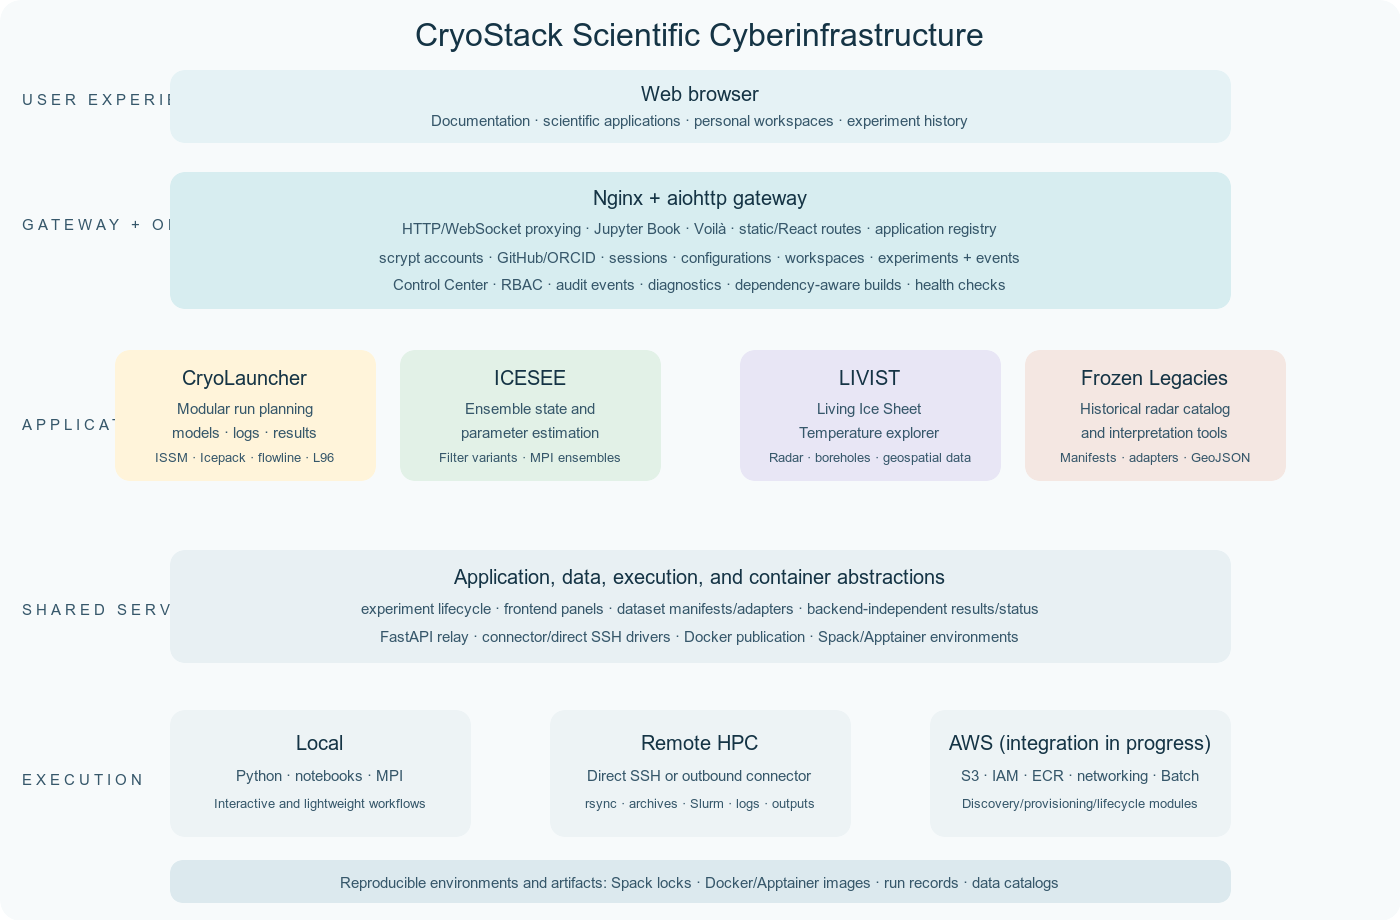
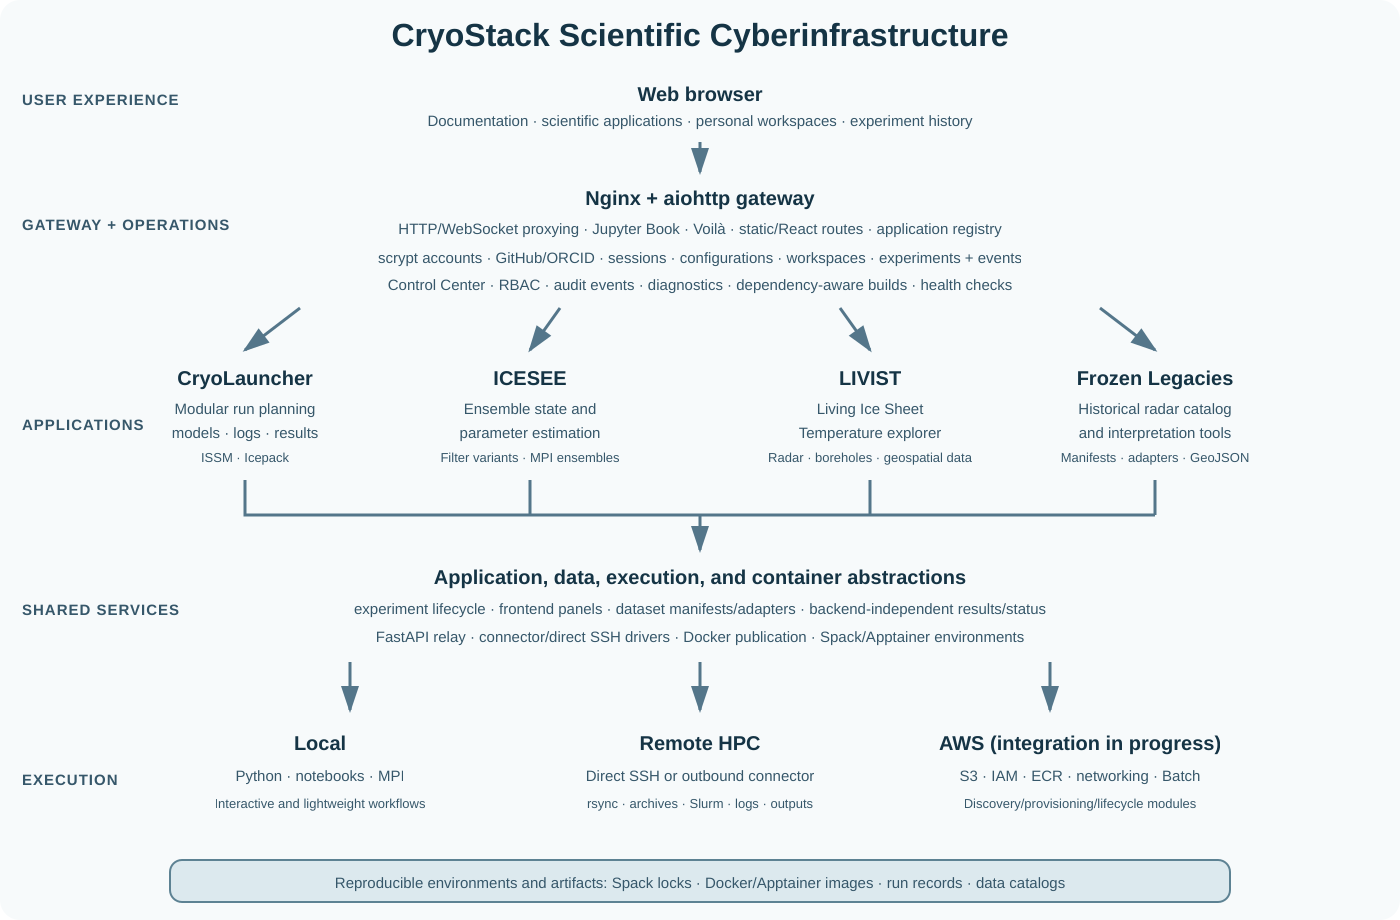
paper: update cloud validation and architecture figure
The manuscript's cloud paragraph and Figure 1 caption said AWS Batch
execution was restricted to ISSM. Since the manuscript was last revised,
the same AWS driver/provisioning architecture was extended to ICESEE, and
its Lorenz-96 example was verified end to end at NP=1; a real CloudFormation
role-name collision in BYO-AWS onboarding was also fixed by moving to
connection-scoped stacks/roles.

- Cloud and Container Architecture: replaced the obsolete ISSM-only
  restriction with an accurate statement that both applications share the
  same driver/provisioning architecture, connecting an AWS account uses
  connection-scoped CloudFormation infrastructure, and ICESEE's verified
  coverage is exactly one example at NP=1 -- explicitly not generalized to
  other examples or multi-process execution, and not a substitute for
  ISSM's existing, unchanged qualification boundary. Added one sentence
  noting that moving between execution backends reuses the same
  scientific/application configuration rather than a separate
  backend-specific one, without claiming identical backend behavior.
- Figure 1: fixed cryostack_architecture.svg's CryoLauncher model-list
  label ("ISSM . Icepack . flowline . L96", a stale list -- Lorenz-96
  belongs to ICESEE, and "flowline" is not a CryoLauncher model) to "ISSM .
  Icepack", and regenerated the PNG from the corrected SVG source (same
  dimensions/mode, no layout change elsewhere). Updated the caption to
  match.
[…]

diff --git a/paper/paper.md b/paper/paper.md
@@ -125,8 +125,10 @@ in a registry rather than hard-coded in a single service script.
 ![CryoStack's current layered architecture. A shared gateway and operations plane supplies identity, per-user workspaces, experiments, administration, deployment, and health services to four scientific applications. Shared contracts cover model capabilities, structured results, and visualization. Modeling and data-assimilation workflows can use local, connector-mediated HPC, or AWS Batch execution backends over reproducible Spack and container environments.](cryostack_architecture.png)
 
 **Figure 1:** CryoStack platform architecture. Solid components are present in
-the repository. The AWS Batch path is implemented for ISSM and awaits
-qualification on a controlled account.
+the repository. The AWS Batch path is implemented for both CryoLauncher/ISSM
+and ICESEE; ISSM awaits qualification on a controlled account, and ICESEE's
+verified coverage is limited to a single example at NP=1 (single-process
+execution).
 
 ## Gateway, routing, and process composition
 
@@ -420,6 +422,10 @@ institutional key-registration process.
 # Cloud and Container Architecture
 
 The cloud subsystem is organized around provider-independent driver contracts.
+Moving an application between execution backends reuses the same
+scientific/application configuration rather than requiring a separate
+backend-specific one, although backend-specific execution and infrastructure
+settings, and validation maturity, still differ by application and backend.
 Abstract cloud and execution interfaces separate frontend actions from provider
 operations. The AWS driver exposes identity and capability inspection;
 discovery and preparation of VPC, subnet, security-group, IAM, S3, ECR, and
@@ -441,11 +447,19 @@ termination flow back through the common execution result. This path is
 implemented but not yet qualified: it runs against a single account-wide bucket
 without per-user object isolation, accepts a caller-supplied Batch job
 definition rather than an allow-listed one, and lacks the budget, quota,
-cleanup, and failure-recovery controls a shared service needs. Cloud execution
-is restricted to ISSM; the multi-node MPI ensembles that ICESEE runs do not fit
-the current single-container Batch configuration. ISSM cloud runs additionally
-require a MATLAB license to be configured for the cloud profile, and the
-reference deployment does not provide one.
+cleanup, and failure-recovery controls a shared service needs. The same AWS
+driver and provisioning architecture also now serves ICESEE rather than a
+second, independent cloud stack; connecting a personal AWS account uses a
+connection-scoped CloudFormation onboarding flow, so independently created
+CryoStack AWS connections do not depend on one globally fixed execution-role
+name. ICESEE's Lorenz-96 example has been executed end to end through this
+shared path at NP=1 (single-process execution), but this does not extend to
+ICESEE's other examples or to multi-process execution, and it does not
+substitute for the ISSM qualification described above: architectural reach
+across applications is currently broader than what has been validated end
+to end for either one. ISSM cloud runs additionally require a MATLAB
+license to be configured for the cloud profile, and the reference
+deployment does not provide one.
 
 Two environment strategies complement these execution backends. ICESEE-Spack
 uses Spack [@gamblin2015spack] to resolve source builds against site compilers,
@@ -527,11 +541,11 @@ interfaces, connector packages, cloud and container modules, deployment
 registry, documentation, Frozen Legacies integration, LIVIST submodule, and a
 pinned ICESEE source snapshot.
 
-The shared platform layers are exercised by an automated test suite:
-approximately 1,280 Python tests spanning the gateway, authentication, Control
-Center, frontend panels, model adapters, connector, cloud modules, and
-deployment engine, plus a browser-facing connector-page test set, all passing
-at the documented revision. A separate offline acceptance command
+The current automated test suite includes more than 1,800 passing Python
+tests spanning the gateway, authentication, Control Center, frontend
+panels, model adapters, connector, cloud modules, and deployment engine,
+plus a browser-facing connector-page test set. A separate offline
+acceptance command
 (`python -m cryostack_src.acceptance --offline`) runs read-only invariant
 checks — agent safety properties, capability-registry and result-contract
 consistency, cloud restrictions and absence of static credentials, per-user
